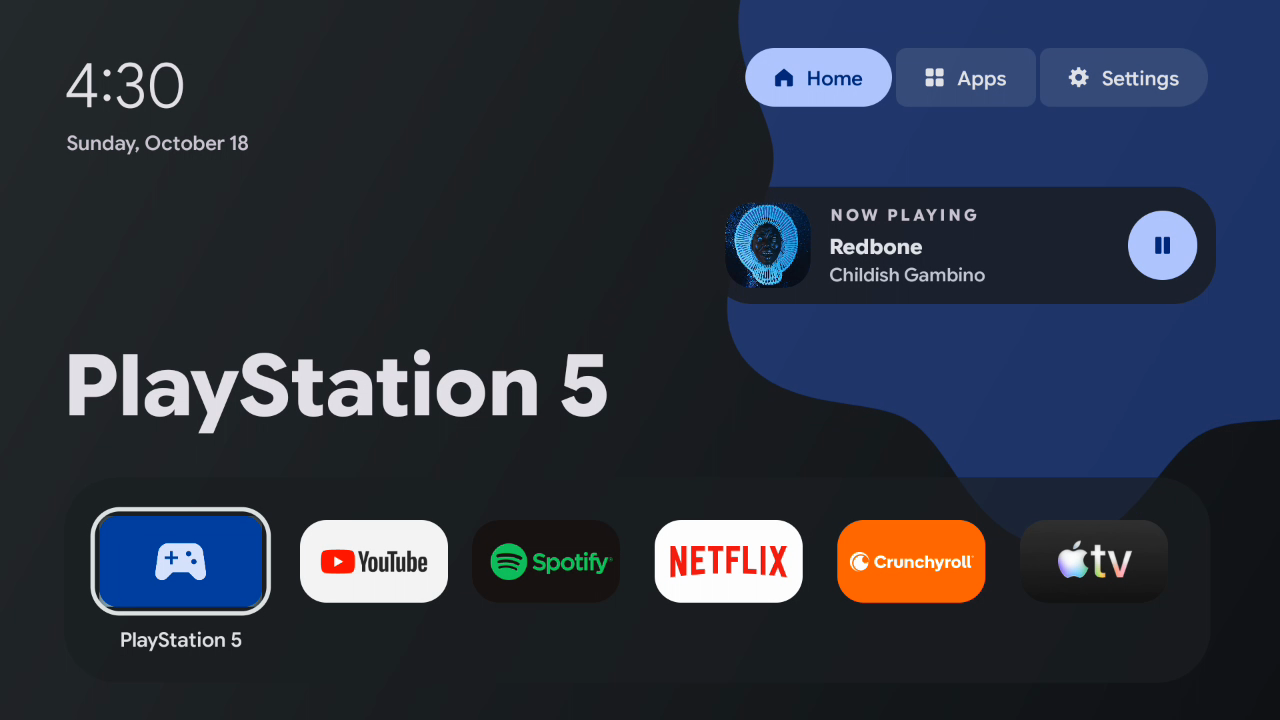
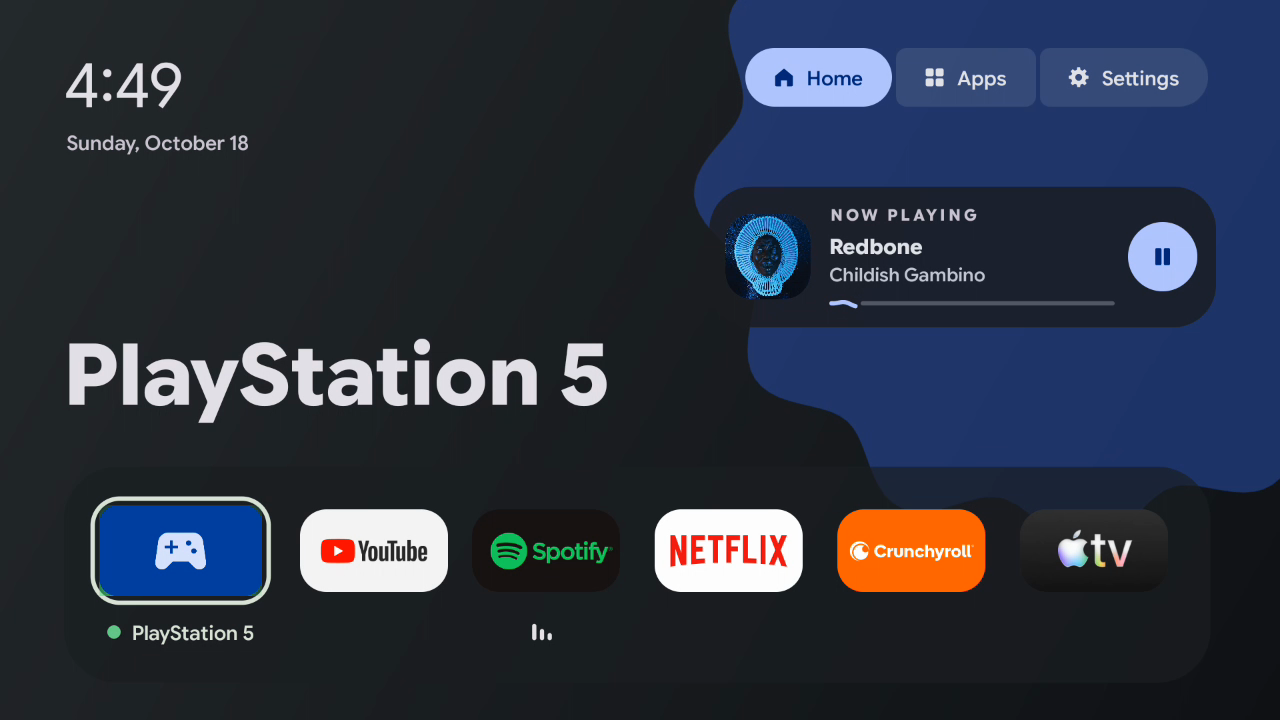
docs: README and demo for v0.2.0 (wavy progress, playing badge, console on-dot, Expressive clock, shapes)

diff --git a/README.md b/README.md
@@ -71,11 +71,13 @@ Changed your mind? `bash uninstall.sh 192.168.1.50` (also in the release) brings
   [material-color-utilities](https://github.com/material-foundation/material-color-utilities) (the same math
   behind Android's wallpaper colors).
 - **Your consoles, by name.** Instead of a generic "Live TV" tile, devices that announce themselves over HDMI
-  (a PlayStation 5, an Xbox) get their own tile. Select it and the TV switches straight to that input.
+  (a PlayStation 5, an Xbox) get their own tile, with a green dot while they're on. Select it and the TV switches
+  straight to that input.
 - **Now Playing.** When music or video plays in any app (Spotify, YouTube Music, ...), a card shows the art,
-  the song and a play/pause button.
-- **Material 3 Expressive.** Spring motion, a colored focus glow, a connected button group, neighbours that
-  make room, a morphing loader when an app is slow, and Google Sans Flex.
+  the song, a wavy progress line and a play/pause button, and a little equalizer marks the playing app in the dock.
+- **Material 3 Expressive.** Spring motion, a colored focus glow, shapes from the Material shape library that
+  morph as you move, a connected button group, neighbours that make room, a morphing loader when an app is slow,
+  and a Google Sans Flex clock whose weight follows the time of day.
 - **Buttery smooth.** Animations run at your TV's full refresh rate (61 fps with zero janky frames on the 60 Hz
   Hisense below), it uses about 35 MB of memory, and nothing runs while you're in another app.
 
